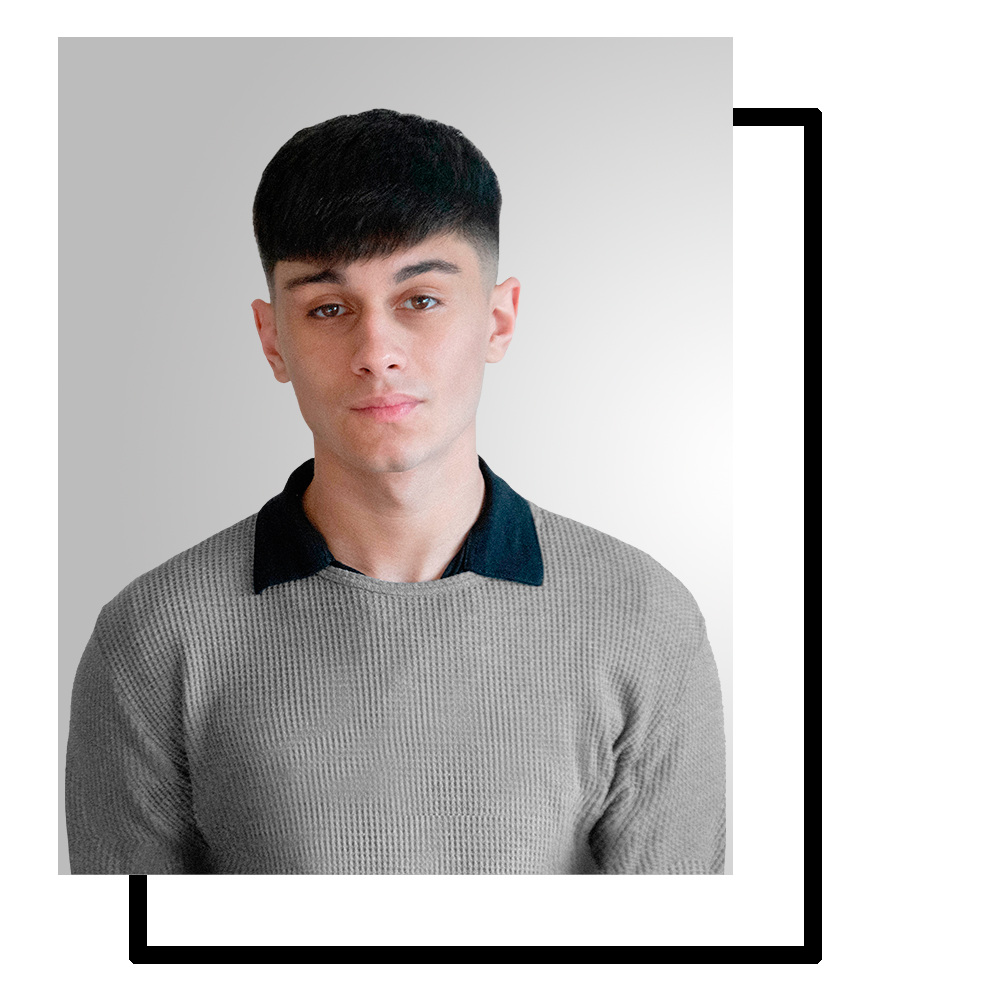
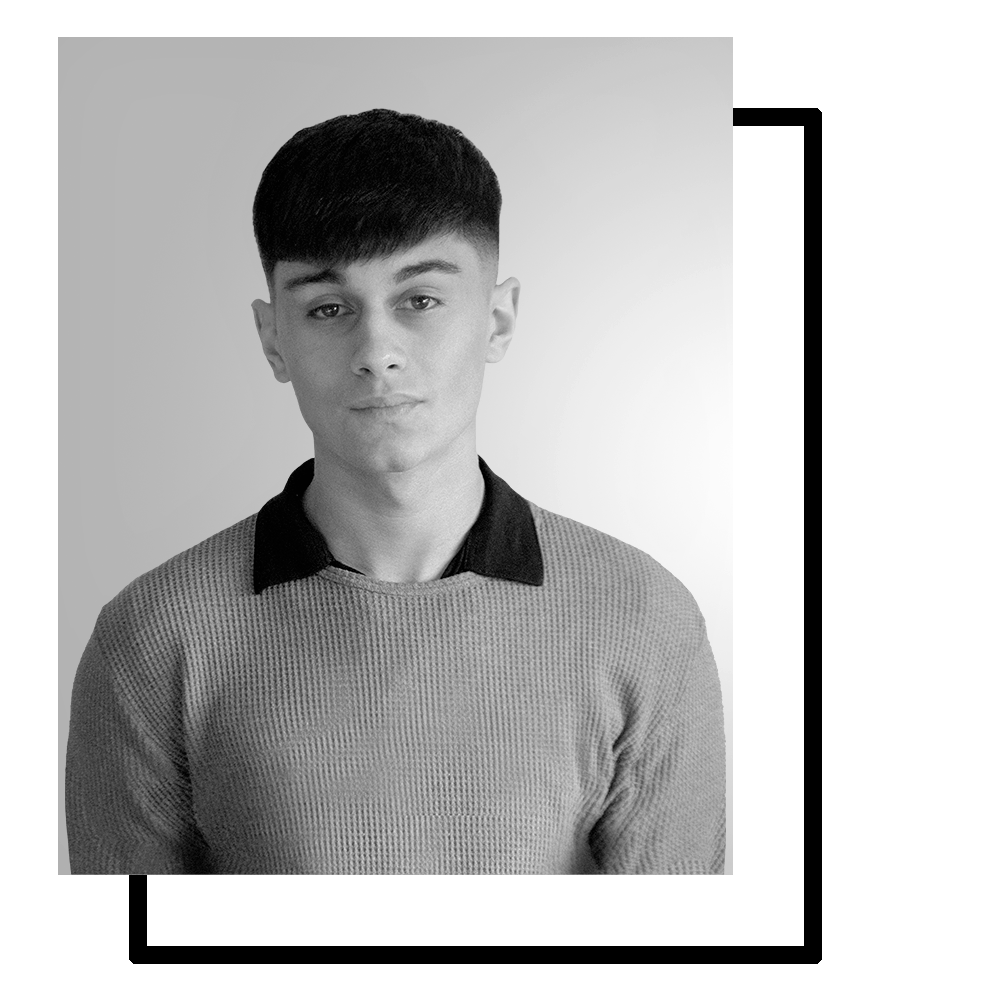
profile image added

Changed region(s): [[0.248, 0.217, 0.558, 0.589]]

diff --git a/lib/widgets/about_me.dart b/lib/widgets/about_me.dart
@@ -6,36 +6,55 @@ class AboutMe extends StatelessWidget {
 
   @override
   Widget build(BuildContext context) {
-    return const Padding(
-      padding: EdgeInsets.only(left: 40, right: 880),
-      child: Column(
-        crossAxisAlignment: CrossAxisAlignment.start,
-        mainAxisAlignment: MainAxisAlignment.start,
+    return Padding(
+      padding: const EdgeInsets.symmetric(horizontal: 50),
+      child: Row(
+        mainAxisAlignment: MainAxisAlignment.spaceBetween,
         children: [
-        
-          Text(
-            'About me',
-            style: TextStyle(
-              fontFamily: 'poppinsbold',
-              fontSize: 70,
-              color: Colors.black
-            ),
+    
+          // const SizedBox(width: 50,),
+    
+          const Column(
+            crossAxisAlignment: CrossAxisAlignment.start,
+            children: [
+            
+              Text(
+                'About me',
+                style: TextStyle(
+                  fontFamily: 'poppinsbold',
+                  fontSize: 70,
+                  color: Colors.black
+                ),
+              ),
+          
+              SizedBox(height: 10,),
+          
+              SizedBox(
+                height: 400,
+                width: 500,
+                child: Text(
+                  textAlign: TextAlign.justify,
+                  softWrap: true,
+                  overflow: TextOverflow.clip,
+                  "As an aspiring backend software developer, I have a strong foundation in Java development, with expertise in Java 11 and 17. I'm proficient in object-oriented programming and can work effectively with other languages like Dart, C, C++, as well as web technologies such as HTML and CSS. \n\nI also have extensive knowledge of frameworks like Spring Boot, Flutter, Hibernate, and JavaFX, enabling me to work on diverse projects. I've developed RESTful APIs with CRUD operations and established database connections. Additionally, I'm skilled in using dependency managers like Maven and Gradle for efficient project management and organization.",
+                  style: TextStyle(
+                    fontFamily: 'poppinsregular',
+                    fontSize: 20,
+                    color: Colors.black
+                  ),
+                ),
+              ),
+            ],
           ),
-
-          SizedBox(height: 20,),
-      
-          Text(
-            textAlign: TextAlign.justify,
-            softWrap: true,
-            overflow: TextOverflow.clip,
-            "As an aspiring backend software developer, I have a strong foundation in Java development, with expertise in Java 11 and 17. I'm proficient in object-oriented programming and can work effectively with other languages like Dart, C, C++, as well as web technologies such as HTML and CSS. \n\nI also have extensive knowledge of frameworks like Spring Boot, Flutter, Hibernate, and JavaFX, enabling me to work on diverse projects. I've developed RESTful APIs with CRUD operations and established database connections. Additionally, I'm skilled in using dependency managers like Maven and Gradle for efficient project management and organization.",
-            style: TextStyle(
-              fontFamily: 'poppinsregular',
-              fontSize: 20,
-              color: Colors.black
-            ),
-          ),
-        
+    
+          // const SizedBox(width: 40,),
+    
+          Image.asset(
+            'assets/images/profile.png',
+            scale: 1.88,
+    
+          )
+    
         ],
       ),
     );

diff --git a/lib/screens/background.dart b/lib/screens/background.dart
@@ -12,8 +12,6 @@ class Background extends StatelessWidget {
 
         ParticleGroup(),
 
-        SizedBox(height: 450,),
-
         WhiteFlagSection(),
 
       ],
